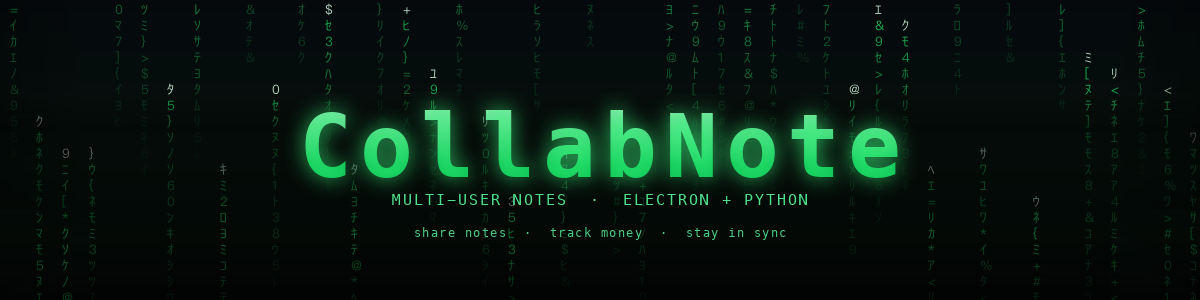
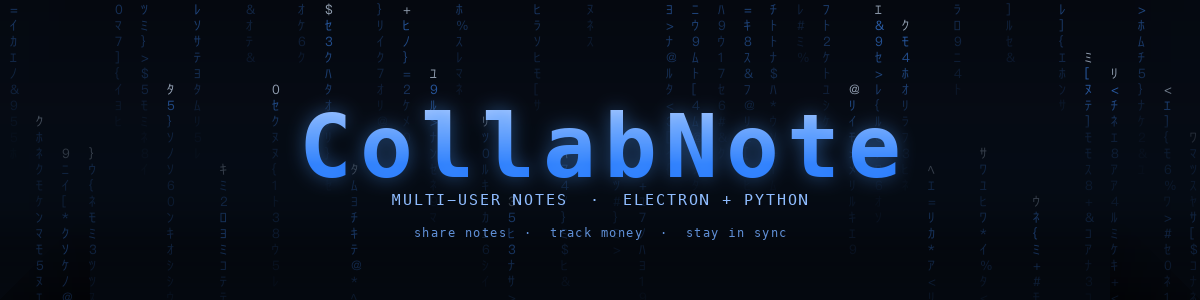
docs(readme): 横幅配色改成跟应用图标一致
从 build/icon-source.png 取色：主蓝 #227afc、白与银灰。
字符雨换蓝、标题改成白→蓝渐变、背景转深蓝黑，去掉原来的绿。
其余版式不变。

diff --git a/build/make-banner.py b/build/make-banner.py
@@ -24,6 +24,19 @@ SEED = 20261015
 
 GLYPHS = list("ｱｲｳｴｵｶｷｸｹｺｻｼｽｾｿﾀﾁﾂﾃﾄﾅﾆﾇﾈﾉﾊﾋﾌﾍﾎﾏﾐﾑﾒﾓﾔﾕﾖﾗﾘﾙﾚﾛﾜﾝ0123456789<>[]{}=+*#$%&@")
 
+# 配色取自 build/icon-source.png：白 / 银灰 / #227afc 蓝
+BG_TOP = (5, 8, 15)
+BG_MID = (6, 12, 22)
+BG_BOTTOM = (2, 3, 6)
+RAIN_NORMAL = (61, 140, 255)
+RAIN_HEAD = (214, 232, 255)
+TITLE_TOP = (247, 249, 255)
+TITLE_BOTTOM = (43, 124, 252)
+SUBTITLE_COLOR = (143, 188, 255)
+TAGLINE_COLOR = (95, 143, 214)
+GLOW_COLOR = (77, 155, 255)
+BAND_COLOR = (5, 11, 20)
+
 FONT_DIR = Path("/System/Library/Fonts")
 MENLO = FONT_DIR / "Menlo.ttc"
 
@@ -60,7 +73,7 @@ def lerp(a, b, t):
 
 
 def make_background():
-    top, mid, bottom = (5, 9, 12), (6, 17, 12), (2, 4, 3)
+    top, mid, bottom = BG_TOP, BG_MID, BG_BOTTOM
     img = Image.new("RGB", (WIDTH, HEIGHT))
     draw = ImageDraw.Draw(img)
     for y in range(HEIGHT):
@@ -83,8 +96,8 @@ def draw_rain(img, rng):
             if y < -20 or y > HEIGHT + 20:
                 continue
             fade = 1 - i / (length + 1)
-            alpha = int(255 * (0.10 + 0.72 * fade ** 1.7))
-            color = (217, 255, 230) if i == 0 else (33, 224, 106)
+            alpha = int(255 * (0.08 + 0.60 * fade ** 1.7))
+            color = RAIN_HEAD if i == 0 else RAIN_NORMAL
             draw.text((x, y), rng.choice(GLYPHS), font=font, fill=color + (alpha,))
     img.paste(layer, (0, 0), layer)
 
@@ -118,23 +131,23 @@ def add_title(img, text, size, y, spacing, top_color, bottom_color, glow=0):
 
     if glow:
         halo = mask.filter(ImageFilter.GaussianBlur(glow))
-        halo_img = Image.new("RGB", (WIDTH, HEIGHT), (60, 255, 130))
-        img.paste(halo_img, (0, 0), halo.point(lambda v: int(v * 0.75)))
+        halo_img = Image.new("RGB", (WIDTH, HEIGHT), GLOW_COLOR)
+        img.paste(halo_img, (0, 0), halo.point(lambda v: int(v * 0.45)))
 
 
 def draw_title_band(img):
     """标题背后的暗带，上下边缘渐变，不留硬边。"""
     height = 150
-    band = Image.new("RGBA", (WIDTH, height), (2, 6, 4, 0))
+    band = Image.new("RGBA", (WIDTH, height), BAND_COLOR + (0,))
     draw = ImageDraw.Draw(band)
     feather = 34
     for i in range(height):
-        alpha = 140
+        alpha = 168
         if i < feather:
             alpha = int(140 * i / feather)
         elif i > height - feather:
             alpha = int(140 * (height - i) / feather)
-        draw.line([(0, i), (WIDTH, i)], fill=(2, 6, 4, alpha))
+        draw.line([(0, i), (WIDTH, i)], fill=BAND_COLOR + (alpha,))
     img.paste(band, (0, 92), band)
 
 
@@ -144,9 +157,11 @@ def draw_vignette(img):
     band = 90
     for i in range(band):
         alpha = int(170 * (1 - i / band))
-        draw.line([(0, HEIGHT - 1 - i), (WIDTH, HEIGHT - 1 - i)], fill=(2, 4, 3, alpha))
-        draw.line([(i, 0), (i, HEIGHT)], fill=(2, 4, 3, int(alpha * 0.55)))
-        draw.line([(WIDTH - 1 - i, 0), (WIDTH - 1 - i, HEIGHT)], fill=(2, 4, 3, int(alpha * 0.55)))
+        edge = BAND_COLOR + (alpha,)
+        soft = BAND_COLOR + (int(alpha * 0.55),)
+        draw.line([(0, HEIGHT - 1 - i), (WIDTH, HEIGHT - 1 - i)], fill=edge)
+        draw.line([(i, 0), (i, HEIGHT)], fill=soft)
+        draw.line([(WIDTH - 1 - i, 0), (WIDTH - 1 - i, HEIGHT)], fill=soft)
     img.paste(overlay, (0, 0), overlay)
 
 
@@ -159,11 +174,11 @@ def main():
     # 标题背后压一块暗带，免得字被字符雨吃掉
     draw_title_band(img)
 
-    add_title(img, TITLE, 88, 146, 8, (216, 255, 230), (11, 191, 82), glow=10)
+    add_title(img, TITLE, 88, 146, 8, TITLE_TOP, TITLE_BOTTOM, glow=9)
 
     draw = ImageDraw.Draw(img)
-    draw_spaced(draw, WIDTH / 2, 200, SUBTITLE, load_font(15), 2, (79, 224, 138))
-    draw_spaced(draw, WIDTH / 2, 232, TAGLINE, load_font(12), 1.5, (74, 205, 132))
+    draw_spaced(draw, WIDTH / 2, 200, SUBTITLE, load_font(15), 2, SUBTITLE_COLOR)
+    draw_spaced(draw, WIDTH / 2, 232, TAGLINE, load_font(12), 1.5, TAGLINE_COLOR)
 
     out = Path(__file__).resolve().parent.parent / "assets" / "banner.png"
     out.parent.mkdir(parents=True, exist_ok=True)
